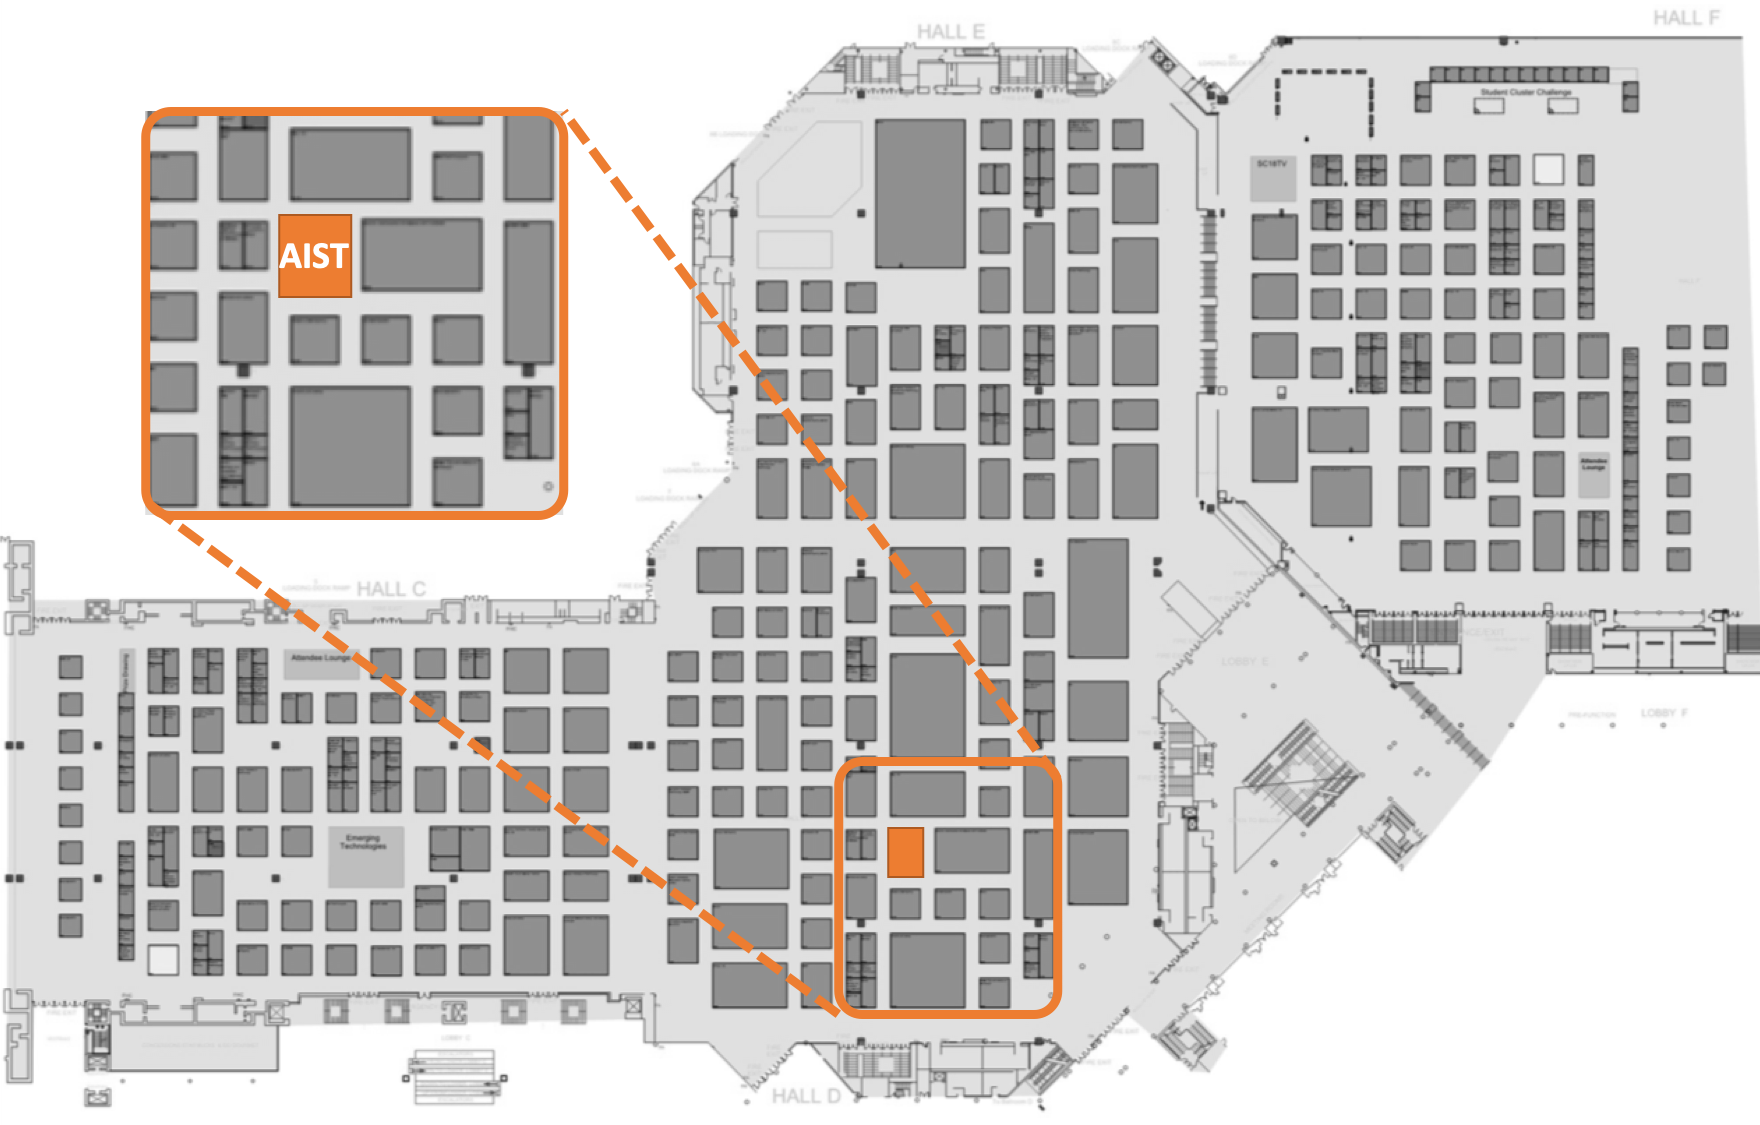
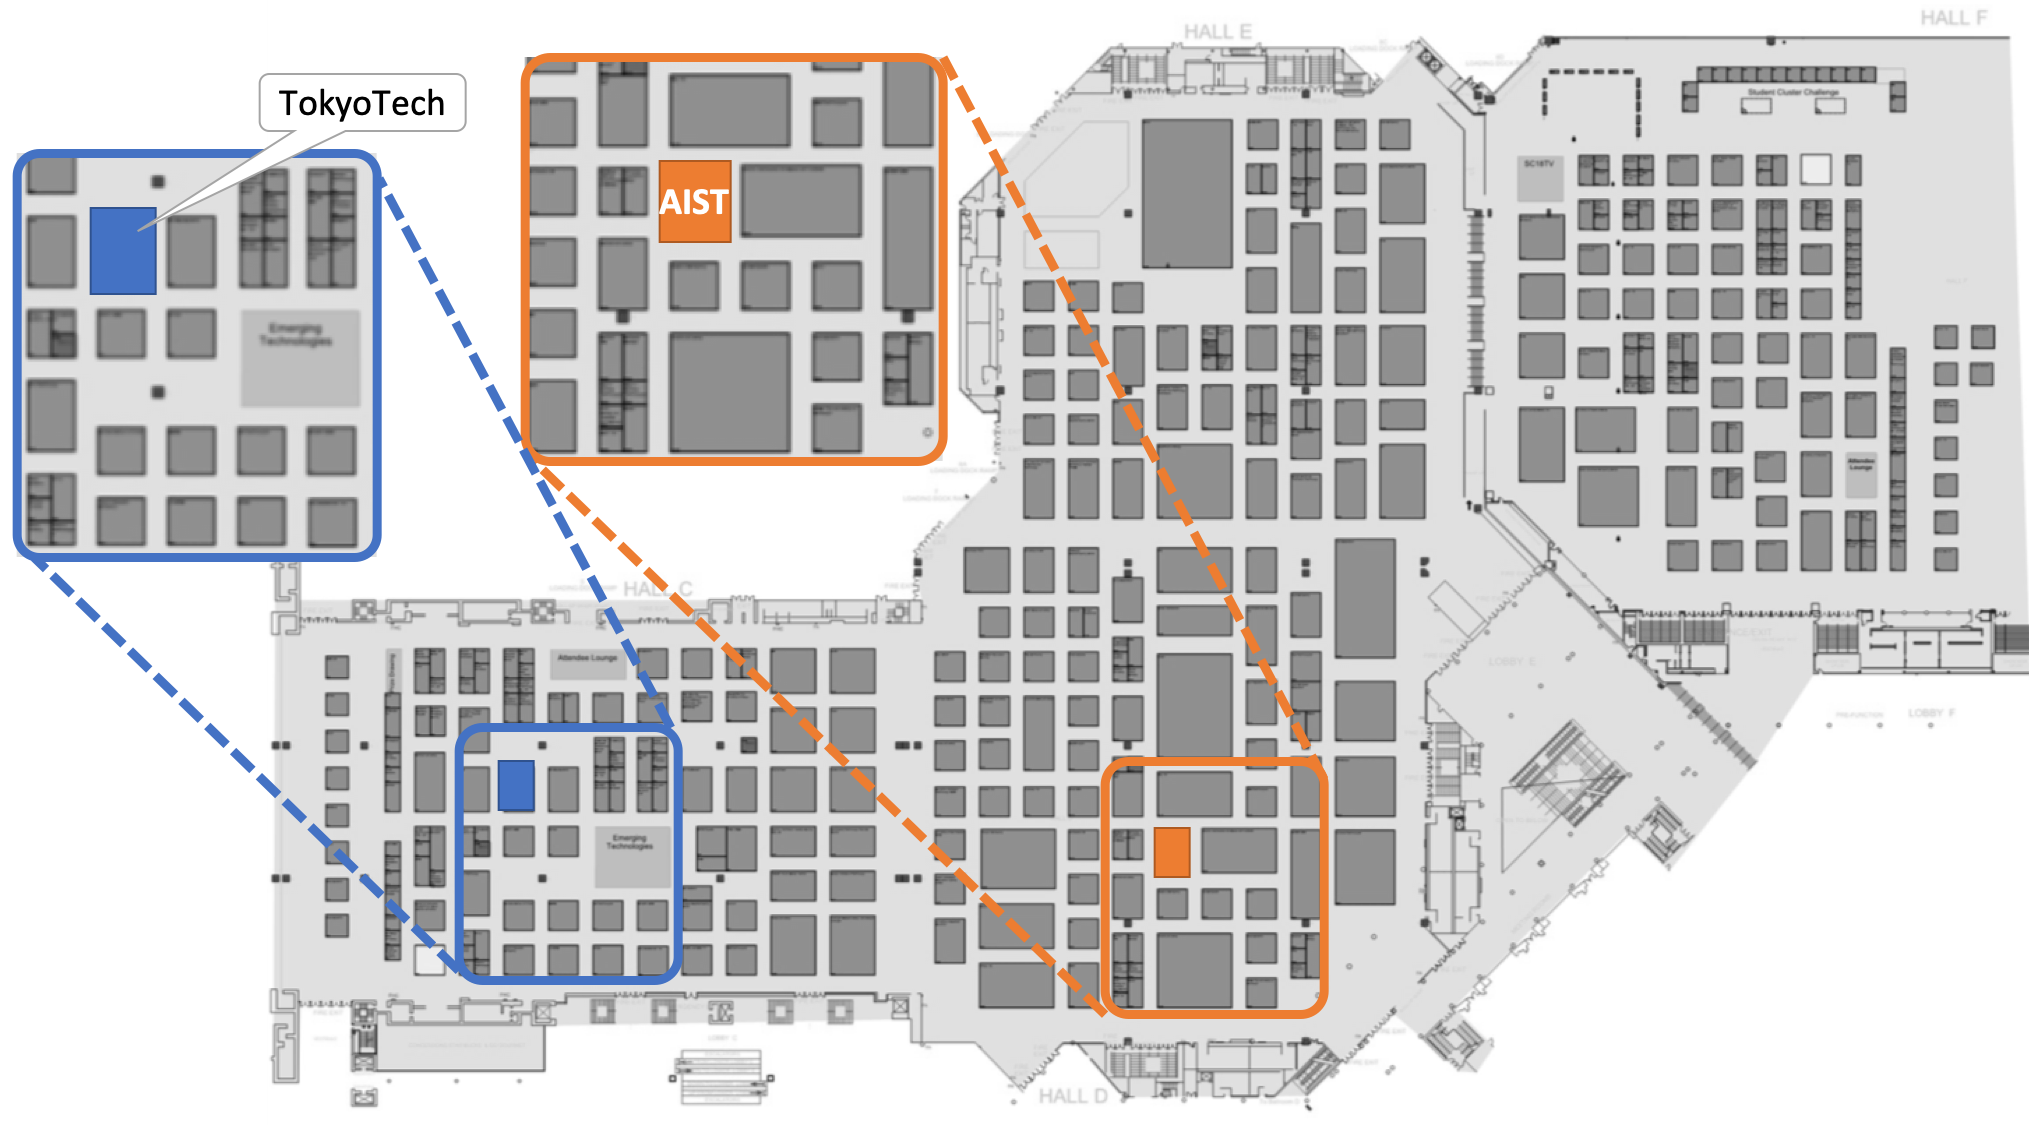
Updated SC18 page

diff --git a/events/20181111-sc18/index.html b/events/20181111-sc18/index.html
@@ -91,48 +91,61 @@
         <span style="display: block; float: right;"><a href="https://sc18.supercomputing.org/" target="_blank"><img src="./SC18-color-hor.png" height="100" alt="ISC18"></a></span>
 
         <p class="lead">
-          AIST starts operation of ABCI, which is a publicly available cloud infrastructure for
+          AIST started operation of ABCI, which is a publicly available cloud infrastructure for
           AI research and development, from this July and RWBC-OIL will start AI research using ABCI.
-          AIST researchers, especially RWBC-OIL members, attend SC18 to provide presentation and
-          booth exhibition about ABCI and related research projects.
+          RWBC-OIL researchers from AIST and TokyoTech attend SC18 to provide presentation and
+          booth exhibition about ABCI, AI/BigData research and related research projects.
         </p>
 
         <h3>SC18 Booth Exhibition</h3>
         <p class="indent-block lead">
-            RWBC-OIL mission is to advance the high-end processing and applications of big data in
-            the real world, utilizing high-performance computing as well as AI-based analysis
-            technologies on world-leading computing infrastructures.
-            Collaborating with top-tier global research institutions as well as industries, this
-            effort focuses on areas such as video recognition, drug design, and social simulations.
+          RWBC-OIL mission is to advance the high-end processing and applications of big data in
+          the real world, utilizing high-performance computing as well as AI-based analysis
+          technologies on world-leading computing infrastructures.
+          By collaborating with top-tier global research institutions as well as industries, this
+          effort focuses on areas such as video recognition, drug design, and social simulations.
         </p>
         <p class="indent-block lead">
-            Highlights at SC 2018 is AI Bridging Cloud Infrastructure (ABCI).
-            ABCI is an open innovation platform with world-class computing resources of 550 Pflops
-            (HP) / 37 Pflops (DP) for AI research and development.
-            Further information is available from <a href="http://abci.ai/" target="_blank">ABCI web site</a>.
+          Highlights at SC18 is two supercomputing infrastructures: AI Bridging Cloud
+          Infrastructure (ABCI) and TSUBAME3.0.
+          ABCI is an open innovation platform with world-class computing resources of 550 Pflops
+          (HP) / 37 Pflops (DP) for AI research and development.
+          TSUBAME3.0 is a supercomputer operated by TokyoTech which got No.1 in the Green500
+          in June 2017.
+          The design of TSUBAME3.0 had a great impact on the design of ABCI.
+          Further information about ABCI is available from <a href="http://abci.ai/" target="_blank">ABCI web site</a>.
+          Information about TSUBAME3.0 is available from <a href="http://www.gsic.titech.ac.jp/en/tsubame" target="_blank">TokyoTech web site</a>.
+        </p>
+        <p class="indent-block lead">
+          We provide detail information about ABCI at AIST booth.
+          There is a mock-up of ABCI compute node.
+          You can get information about TSUBAME3.0 at TokyoTech booth and there is also a mock-up
+          of TSUBAME3.0 compute node.
+          You can reach the exhibition information abount TokyoTech on <a href="http://www.gsic.titech.ac.jp/en/sc18", target="_blank">this page</a>.
         </p>
 
         <h4>Booth Map</h4>
         <p class="indent-block lead">
-          Visit our booth at #2409<br>
+          AIST booth is at #2409<br>
+          TokyoTech booth is at #427<br>
           <img src="./booth_map.png" alt="RWBC-OIL booth is #2409" style='height: 63%; width: 63%; object-fit: contain'>
         </p>
 
-        <h4>Posters</h4>
+        <!--h4>Posters</h4>
         <table border="1" class="lead">
           <tr>
             <td style="padding:10px;"><a href="./poster00.pdf" target="_blank"><img src="./poster00.png" alt="ABCI Hardware"></a><br>ABCI Hardware</td>
             <td style="padding:10px;"><a href="./poster01.pdf" target="_blank"><img src="./poster01.png" alt="ABCI ABCI Software & Services"></a><br>ABCI Software & Services</td>
           </tr>
-          <!--tr>
+          <tr>
             <td style="padding:10px;"><a href="./poster02.pdf" target="_blank"><img src="./poster02.png" alt="TokyoTech TSUBAME"></a><br>TokyoTech Tsubame</td>
             <td style="padding:10px;"><a href="./poster03.pdf" target="_blank"><img src="./poster03.png" alt="RWBC-OIL Overview"></a><br>RWBC-OIL Overview</td>
           </tr>
           <tr>
             <td style="padding:10px;"><a href="./poster04.pdf" target="_blank"><img src="./poster04.png" alt="RWBC-OIL Research Group"></a><br>RWBC-OIL Research Group</td>
             <td style="padding:10px;"><a href="./poster05.pdf" target="_blank"><img src="./poster05.png" alt="RWBC-OIL Applications"></a><br>RWBC-OIL Applications</td>
-          </tr -->
-        </table>
+          </tr>
+        </table-->
 
         <h3>Presentations</h3>
 
@@ -166,15 +179,15 @@
           <span class="presentation-speaker">Dr. Hitoshi Sato</span><br>
           Date: Thursday, June 28th 12:00pm - 12:30pm<br>
           Location: Basalt
-        </p>
+        </p-->
 
         <h3>Rankings</h3>
         <ol class="lead">
-          <li>ABCI ranked #5 in <a href="https://www.top500.org/list/2018/06/" target="_blank">Top500 list</a>.<br>
-            This is #1 in Japan, #3 in Asia.</li>
-          <li>ABCI ranked #8 in <a href="https://www.top500.org/green500/lists/2018/06/" target="_blank">Green500 list</a>.<br>
-            This is #6 in Japan and Asia.</li>
-        </ol -->
+          <li>ABCI ranked ??? in <a href="https://www.top500.org/list/2018/11/" target="_blank">Top500 list</a>.<br>
+            <!--This is ??? in Japan, ??? in Asia.--></li>
+          <li>ABCI ranked ??? in <a href="https://www.top500.org/green500/lists/2018/11/" target="_blank">Green500 list</a>.<br>
+            <!--This is ??? in Japan, ??? in Asia.--></li>
+        </ol>
       </div>
     </div>
   </div>
